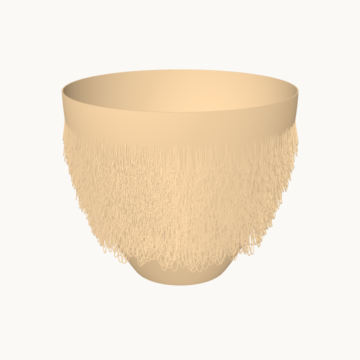
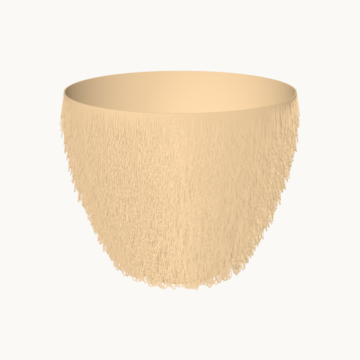
Droop: plain bands as small as possible
Strands run from just above the bed to ~1 mm under the rim on every style (fixed height zones removed). Near the
bed, loops are shortened so the hung loop stays 2.5 mm clear, so the fringe tapers into the foot instead of
leaving a solid band. Fur hair runs floor to rim. Thumbnails re-rendered.

diff --git a/text2print/droop.py b/text2print/droop.py
@@ -24,6 +24,7 @@ STYLES = {
     "unraveled": dict(name="Unraveled", blurb="A wild mix of short and long loops, as if the wall is coming apart"),
     "fur":       dict(name="Fur", blurb="Hundreds of bridged hairs out to a cut-away shell — brush them into a mane"),
 }
+CLEAR = 2.5                 # mm: a hung loop's lowest point stays this far above the bed
 FUR_LEN = {"short": 10.0, "medium": 15.0, "long": 22.0}
 DENSITY = {"sparse": 0.55, "medium": 1.0, "dense": 1.45}
 LENGTH = {"short": 0.7, "medium": 1.0, "long": 1.4}
@@ -31,11 +32,11 @@ LENGTH = {"short": 0.7, "medium": 1.0, "long": 1.4}
 # per style, in units of the nozzle's line width (lw) and layer height (lh) where it matters
 _SPEC = {
     # width 1.15 lw = ONE extrusion (the single overhanging line is the whole idea); swag is 2 lines on purpose
-    #            chord mm  bulge mm  width lw  tall lh  row gap lh  keep  zone (lo, hi) of the wall height
-    "fringe":    dict(chord=(6, 9),   bulge=(14, 22), width=1.15, tall=2, row=4,  keep=0.62, zone=(0.30, 0.86), power=0.55),
-    "swag":      dict(chord=(22, 32), bulge=(7, 10),  width=2.1, tall=3, row=14, keep=0.90, zone=(0.22, 0.84), power=1.0),
-    "curls":     dict(chord=(4, 5.5), bulge=(6, 8),   width=1.15, tall=3, row=5,  keep=1.0,  zone=(0.14, 0.82), power=0.5),
-    "unraveled": dict(chord=(6, 30),  bulge=(5, 24),  width=1.15, tall=2, row=6,  keep=0.55, zone=(0.16, 0.90), power=0.7),
+    #            chord mm  bulge mm  width lw  tall lh  row gap lh  keep
+    "fringe":    dict(chord=(6, 9),   bulge=(14, 22), width=1.15, tall=2, row=4,  keep=0.62, power=0.55),
+    "swag":      dict(chord=(22, 32), bulge=(7, 10),  width=2.1, tall=3, row=14, keep=0.90, power=1.0),
+    "curls":     dict(chord=(4, 5.5), bulge=(6, 8),   width=1.15, tall=3, row=5,  keep=1.0, power=0.5),
+    "unraveled": dict(chord=(6, 30),  bulge=(5, 24),  width=1.15, tall=2, row=6,  keep=0.55, power=0.7),
 }
 
 
@@ -68,11 +69,16 @@ def _rows(style, r_of_z, height, nz, density, length, seed=11, z_range=None, ali
     sp = _SPEC[style]; lh, lw = nz.layer_h, nz.line_w
     tall = min(4, sp["tall"]); strand_h = tall * lh; width = sp["width"] * lw
     gap = max(sp["row"], tall + 1) * lh                      # rows a full strand + a layer apart: never intersect
-    bulge_max = sp["bulge"][1] * length
+    # plain bands as small as possible (Collin): strands run from just above the bed to just under the rim. A loop
+    # hangs about its bulge below its anchor, so near the bed loops are SHORTENED to clear it instead of the whole
+    # bottom being left plain — the fringe tapers into the foot.
+    rim = 0.0
     if z_range is None:
-        z_range = (sp["zone"][0] * height, sp["zone"][1] * height)
-    z_lo = max(z_range[0], bulge_max + 4.0)                   # the droop must not reach the bed
-    z_hi = z_range[1] - strand_h
+        z_range = (0.0, height); rim = 1.0
+    min_bulge = max(2.5, 0.35 * sp["bulge"][0] * length)
+    z_lo = max(z_range[0], CLEAR + min_bulge)
+    z_hi = z_range[1] - strand_h - rim
+    fit = lambda b, z: min(b, z - CLEAR)                    # the hung loop stops CLEAR mm above the bed
     out = []
     if style == "curls":
         # tiers of coil columns; each next loop drifts 40 % of a chord sideways (partial overlap -> a coil)
@@ -91,8 +97,9 @@ def _rows(style, r_of_z, height, nz, density, length, seed=11, z_range=None, ali
                         break
                     chord = sp["chord"][0] + (sp["chord"][1] - sp["chord"][0]) * _h(seed, "ch", tier, c, k)
                     th_k = th + d * 0.4 * chord / r_of_z(z) * (k % 4 - 1.5)
-                    bulge = (sp["bulge"][0] + (sp["bulge"][1] - sp["bulge"][0]) * _h(seed, "b", tier, c, k)) * length
-                    out.append((th_k, chord, bulge, z, strand_h, 0.0, width))
+                    bulge = fit((sp["bulge"][0] + (sp["bulge"][1] - sp["bulge"][0]) * _h(seed, "b", tier, c, k)) * length, z)
+                    if bulge >= min_bulge:
+                        out.append((th_k, chord, bulge, z, strand_h, 0.0, width))
                     z += gap
             tier += 1; z_t += tier_h
         return out
@@ -109,7 +116,7 @@ def _rows(style, r_of_z, height, nz, density, length, seed=11, z_range=None, ali
                 continue
             chord = sp["chord"][0] + (sp["chord"][1] - sp["chord"][0]) * _h(seed, "ch", row, k)
             chord = min(chord, slot - width * 2.0)            # strands in a row never touch
-            bulge = (sp["bulge"][0] + (sp["bulge"][1] - sp["bulge"][0]) * _h(seed, "b", row, k)) * length
+            bulge = fit((sp["bulge"][0] + (sp["bulge"][1] - sp["bulge"][0]) * _h(seed, "b", row, k)) * length, z)
             lean = (_h(seed, "l", row, k) - 0.5) * (0.8 if style == "unraveled" else 0.25)
             th = 2 * math.pi * (k + phase) / n
             out.append((th, chord, bulge, z, strand_h, lean, width))
@@ -203,7 +210,7 @@ def fur(shape, v, nz, density="medium", length="medium", draft=False, preview=Fa
     from .meshops import manifold_to_trimesh
     wall, prof, height, rmax, shell = body(shape, v, nz)
     lh = nz.layer_h; L = FUR_LEN.get(length, 15.0); w = 2 * nz.line_w
-    z_lo, z_hi = height * 0.28, height * 0.86
+    z_lo, z_hi = max(1.6, 8 * lh) + lh, height - 1.5          # hair from just above the floor to just under the rim
     every = {"sparse": 3, "medium": 2, "dense": 1}.get(density, 2)
     shell_t = 2 * nz.line_w + 0.05
     # shell: follows the wall at +L from the bed to the top of the fur band

diff --git a/tests/test_v4.py b/tests/test_v4.py
@@ -322,3 +322,15 @@ def test_real_slicer_counts_woven_mix_changes(tmp_path):
     assert "error" not in r, r
     g = zipfile.ZipFile(tmp_path / "s" / "sliced.3mf").read("Metadata/plate_1.gcode").decode(errors="ignore")
     assert len(re.findall(r"^M620 S\dA", g, re.M)) == b.stats["swaps"]
+
+
+@pytest.mark.parametrize("style", ["fringe", "swag", "curls", "unraveled"])
+def test_droop_plain_bands_are_minimal(style):
+    from text2print import droop
+    nz = printer.nozzle(0.4); S = SHAPES["cup"]; v = S.resolve({"diameter": 70, "height": 80})
+    spots = droop._rows(style, S.profile(v)[0], 80.0, nz, 1.0, 1.0)
+    zs = [z for *_, z, _, _, _ in [s[:4] + (0, 0, 0) for s in spots]]
+    gap = max(droop._SPEC[style]["row"], droop._SPEC[style]["tall"] + 1) * nz.layer_h
+    assert min(zs) < 12.0                                         # strands start near the foot (short loops there)
+    assert max(zs) > 80.0 - 1.0 - 4 * nz.layer_h - 2 * gap - 1.0  # ...and run to just under the rim
+    assert all(z - bu >= droop.CLEAR - 1e-6 for _, _, bu, z, *_ in spots)
